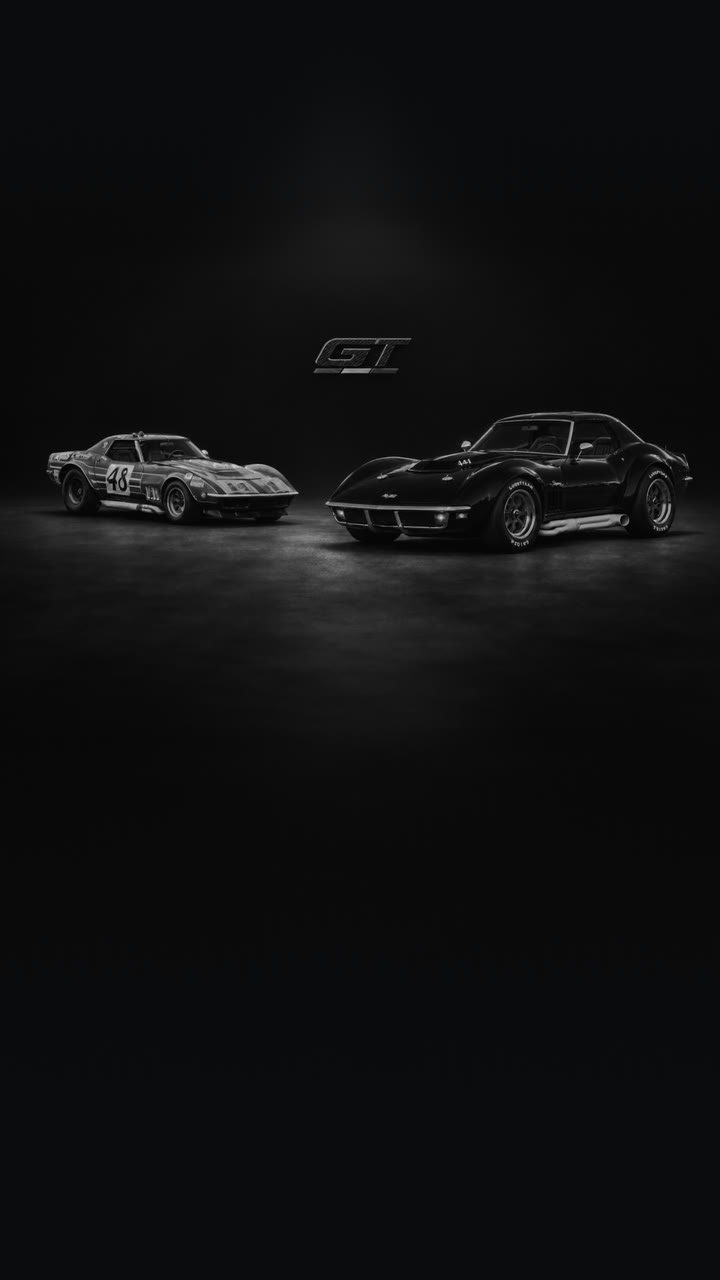
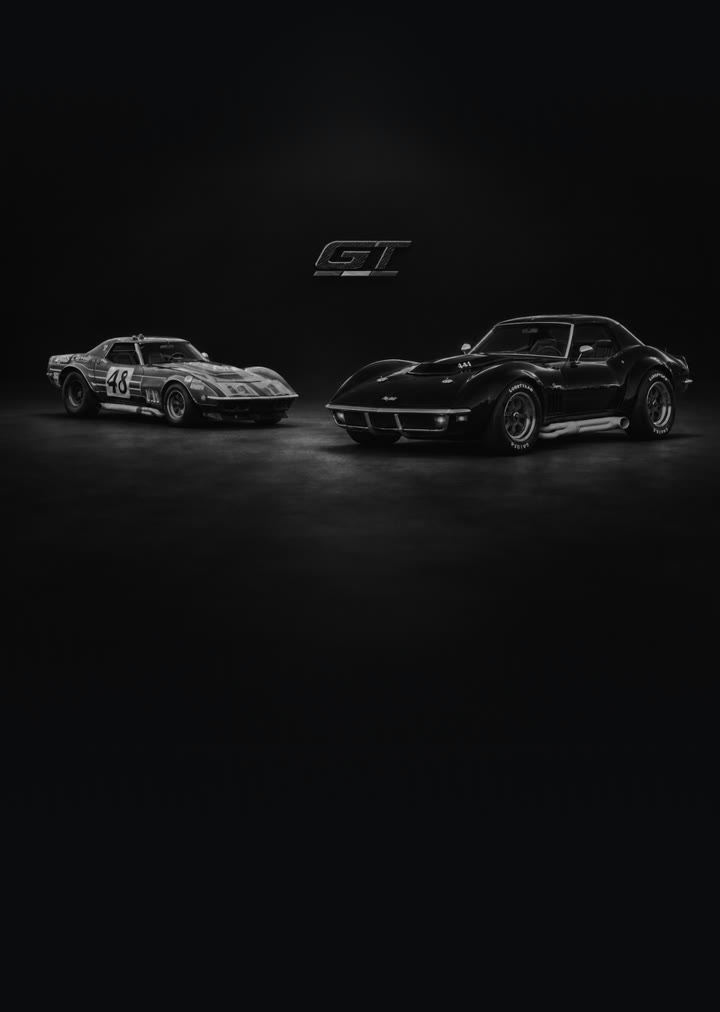
v3 phone GT: Alex's new frame, no dead band above it, the top fades into the ground

Changed region(s): [[0.0611, 0.3063, 0.9472, 0.4901], [0.4278, 0.2451, 0.55, 0.3063]]

diff --git a/index_v3.html b/index_v3.html
@@ -320,7 +320,7 @@ The car stays under its cover: no photograph of the GT has been released. -->
     <div class="gt__lit"><img src="assets/img/final/gt-coming-soon-2.jpg" srcset="assets/img/final/gt-coming-soon-2-1280.jpg 1280w, assets/img/final/gt-coming-soon-2.jpg 1920w" sizes="max(100vw, 178vh)" width="1920" height="1080" loading="lazy" alt="The No. 48 race Corvette and the black 441 street Corvette side by side in a dark warehouse, in black and white."><img class="gt__mark gt__mark--cs" src="assets/img/final/gt-mark.png?v=2" width="699" height="285" alt="The GT mark."></div>
     <div class="gt__rig" aria-hidden="true"><span class="gt__beam gt__beam--l"></span><span class="gt__beam gt__beam--r"></span><span class="gt__lamp gt__lamp--l"></span><span class="gt__lamp gt__lamp--r"></span></div>
   </div>
-  <img class="gt__phone" src="assets/img/final/gt-coming-soon-phone-720.jpg" srcset="assets/img/final/gt-coming-soon-phone-720.jpg 720w, assets/img/final/gt-coming-soon-phone.jpg 1080w" sizes="100vw" width="1080" height="1920" loading="lazy" alt="The GT mark above the No. 48 race Corvette and the black 441 street Corvette, in black and white.">
+  <img class="gt__phone" src="assets/img/final/gt-coming-soon-phone-720.jpg?v=2" srcset="assets/img/final/gt-coming-soon-phone-720.jpg?v=2 720w, assets/img/final/gt-coming-soon-phone.jpg?v=2 1080w" sizes="100vw" width="1080" height="1518" loading="lazy" alt="The GT mark above the No. 48 race Corvette and the black 441 street Corvette, in black and white.">
   <canvas class="gt__dust" aria-hidden="true" data-gt-dust></canvas>
   <div class="gt__top">
     <h2 id="h-gt" class="gt__title gt__title--mark" data-gt-title><span class="visually-hidden">The GT. </span><span class="gt__sub">A tribute to the Chevrolet Corvette</span></h2>

diff --git a/styles-v3.css b/styles-v3.css
@@ -1696,7 +1696,9 @@ html { overflow-x: clip; }
   /* the words follow the picture in the flow and are drawn up onto its empty lower part (the frame is 16:9 tall
      of its width; the cars end above 58%), so they never overflow on a short phone */
   #gt[data-static-phone] .gt__top, #gt[data-static-phone] .gt__bottom { position: relative; z-index: 1; margin: 0 var(--gutter); }
-  #gt[data-static-phone] .gt__top { margin-top: calc(100vw * 16 / 9 * -.38); }
+  #gt[data-static-phone] .gt__top { margin-top: calc(100vw * 1518 / 1080 * -.44); }   /* the cars end at about 50% of the frame */
+  /* no dead band between the Lake Forest block and the GT: the block's foot is shorter on a phone */
+  #ch-lfsc { padding-bottom: var(--s-6); }
   #gt[data-static-phone] .gt__bottom { margin-top: var(--s-5); padding-bottom: var(--s-9); }
 }
 
@@ -1705,4 +1707,14 @@ html { overflow-x: clip; }
 @media (max-width: 999px) {
   .ch.lm { padding-left: 0; padding-right: 0; }
   #ch-lemans .lm__text { background: var(--ground) !important; padding-left: var(--gutter); padding-right: var(--gutter); }
+}
+@media (max-width: 699px) {
+  /* the history wrapper's 128px foot and the frame's own dark top were stacking into a dead band above the GT */
+  [data-history] { padding-bottom: 0; }
+  #ch-lfsc { padding-bottom: var(--s-8); }
+  #gt[data-static-phone] { overflow: hidden; }
+  #gt[data-static-phone] .gt__phone { margin-top: calc(100vw * 1518 / 1080 * -.16); }   /* the empty top sixth of the frame */
+}
+@media (max-width: 699px) {
+  #gt[data-static-phone] .gt__phone { -webkit-mask-image: linear-gradient(180deg, transparent 0, #000 22%); mask-image: linear-gradient(180deg, transparent 0, #000 22%); }
 }
